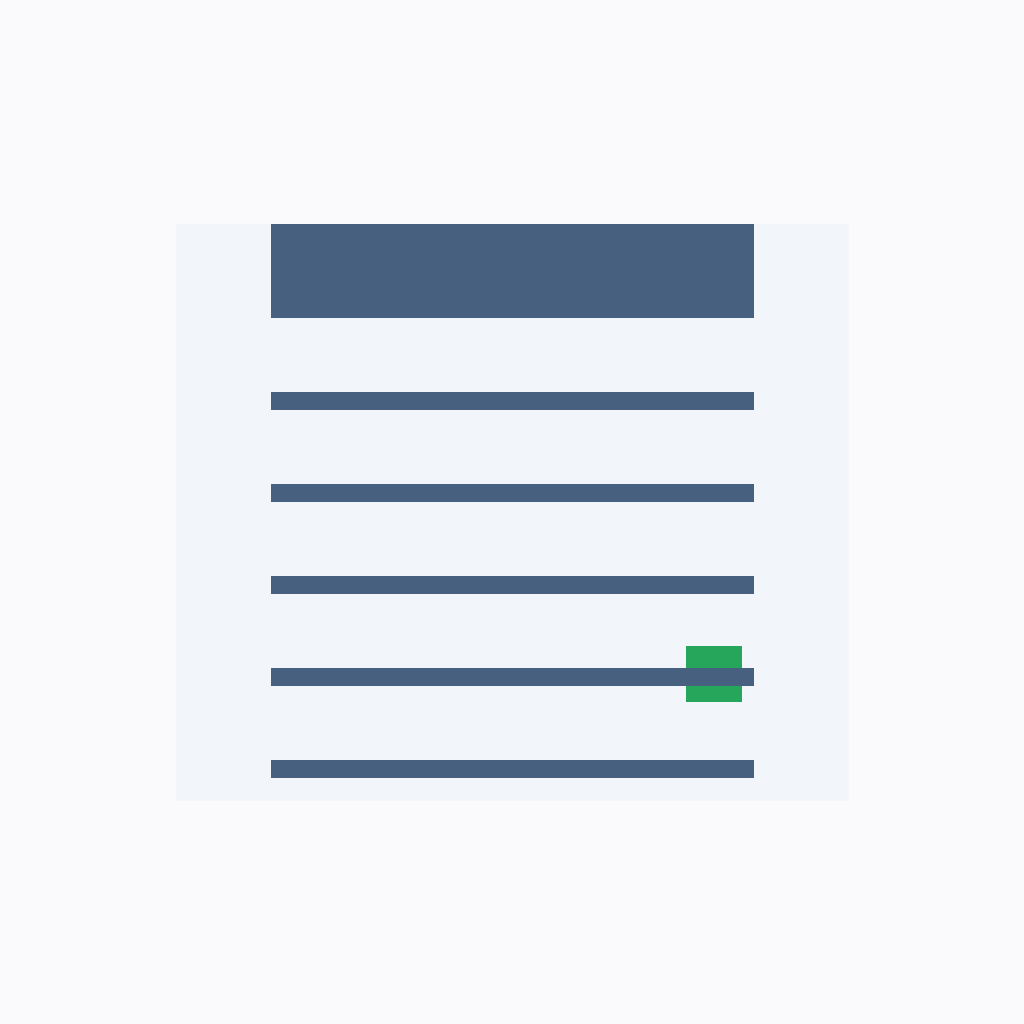
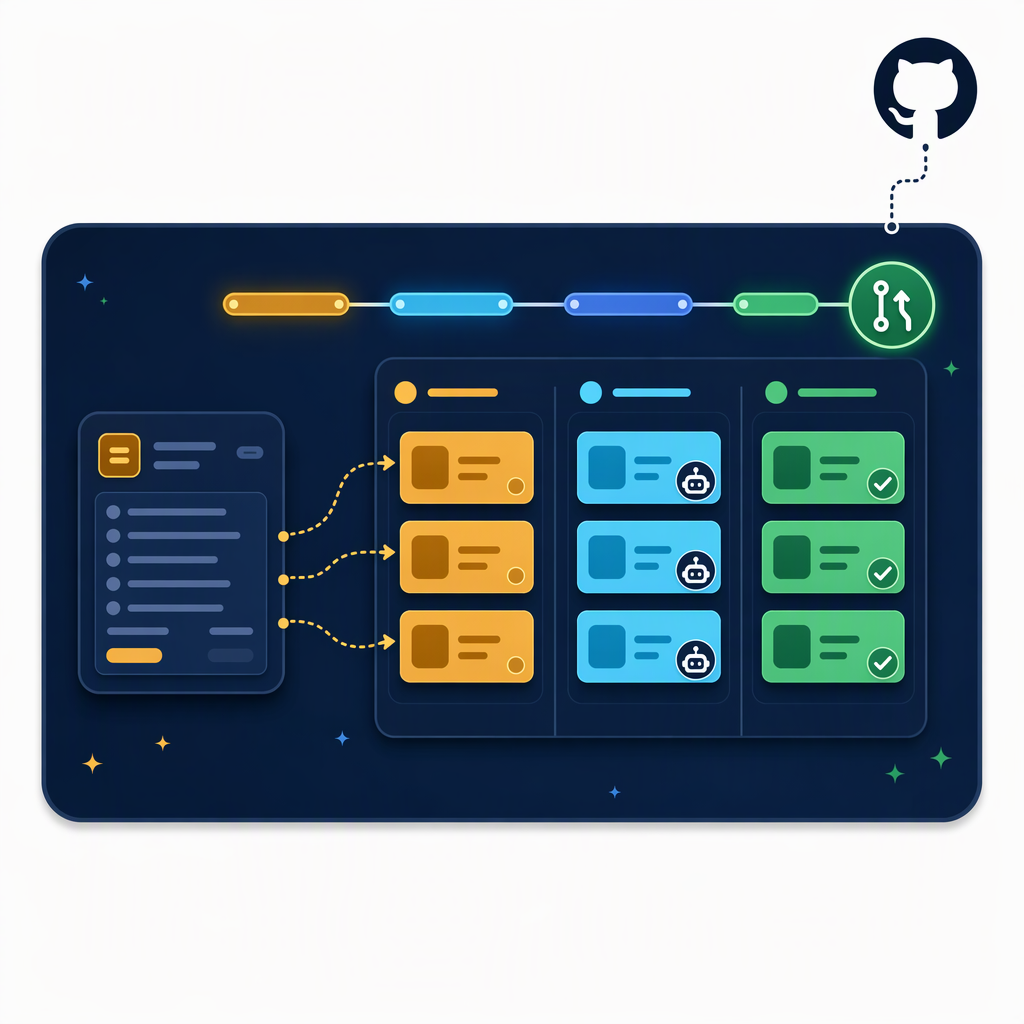
docs(site,skills): update session skill thumbnails, use canonical skill titles, and sort catalog alphabetically (#244)

diff --git a/docs/thumbnail-prompts.md b/docs/thumbnail-prompts.md
@@ -420,3 +420,25 @@ deployment: gpt-image-2
 endpoint: https://jong-image-westus3.openai.azure.com
 apiVersion: 2025-04-01-preview
 SHA-256: 08baa9ed97ba72f128d1d1051119960d7eef89f4fdc8d4a466e5da6ad3c837c9
+
+## create-session-board-canvas (31a1df78de87)
+
+Prompt: "Flat vector illustration on a pure white background, 1024x1024, centered composition. One large rounded dark-navy session-board canvas window is the hero surface. Inside it, show a clear left-to-right transformation: on the left, a compact plan card with abstract dash lines and a small amber blocker badge connects via smooth dashed guide lines into a clean three-column kanban board on the right with pending amber cards, active cyan task cards with tiny agent node badges, and completed emerald-green task cards with circular green check badges, topped by a sleek segmented progress bar and a green pull-request merge badge. Place a small GitHub Octocat mark in the upper-right with a dotted tether to the canvas window, never the main subject. Deep navy, cyan-indigo, emerald health green, and warm amber palette; clean modern rounded shapes, soft long shadows, subtle dashed connectors, tiny sparkles, strong silhouette legible at 175 pixels. Diagram treatment only: abstract dashes and rounded pills instead of labels. No words, letters, numerals, percentages, fake text, photorealism, 3D, extra floating windows, or clutter."
+
+Provider: azure-openai
+model: gpt-image-2
+deployment: gpt-image-2
+endpoint: https://jong-image-westus3.openai.azure.com
+apiVersion: 2025-04-01-preview
+SHA-256: 31a1df78de87f12500b7648dc4e15392a0060e580b10641a7127bea2727d12ab
+
+## session-statusline (540b36af8d3f)
+
+Prompt: "Flat vector illustration on a pure white background, 1024x1024, centered composition. One large rounded dark-slate terminal window with a prominent bottom statusline footer bar is the hero surface. Inside it, show a clear left-to-right transformation: on the left, cluttered stale status pills with an amber warning dot are swept away through a subtle dashed filter arc into a clean, organized session footer bar on the right holding four distinct color-coded rounded pills in sky blue, health green with a circular check badge, warm amber, and soft violet, while a tidy git-branch and pull-request card above the footer carries a small green shield badge to show that clearing pills preserves underlying work. Place a small GitHub Octocat mark in the upper-right with a dotted tether to the terminal window, never the main subject. Dark slate navy, sky blue, health green, warm amber, and soft violet palette; clean modern rounded shapes, soft long shadows, subtle dashed guide lines, tiny sparkles, strong silhouette legible at 175 pixels. Diagram treatment only: abstract dashes and rounded pills instead of labels. No words, letters, numerals, fake text, photorealism, 3D, trash cans, destructive imagery, or clutter."
+
+Provider: azure-openai
+model: gpt-image-2
+deployment: gpt-image-2
+endpoint: https://jong-image-westus3.openai.azure.com
+apiVersion: 2025-04-01-preview
+SHA-256: 540b36af8d3f05e61f14db979615ce69c708166d44da55bf6e8cd43198d97eaa

diff --git a/site/src/content/skills/retro.md b/site/src/content/skills/retro.md
@@ -1,5 +1,5 @@
 ---
-title: Session Retro
+title: retro
 tagline: "Close out a session with an evidence-backed task and feedback audit, source-skill improvements, and safely approved branch and worktree cleanup"
 useWhen: "retro, session retro, session retrospective, wrap up this session, check whether we are done, reconcile my feedback"
 repoPath: skills/retro

diff --git a/site/src/content/skills/eli5.md b/site/src/content/skills/eli5.md
@@ -1,5 +1,5 @@
 ---
-title: "Explain Like I'm 5 (eli5)"
+title: eli5
 tagline: "Understand code, errors, and ideas through a plain-language explanation and a useful comparison."
 useWhen: "When you say ELI5, explain this simply, or ask for a beginner-friendly explanation of the current conversation, selection, or attachment."
 repoPath: skills/eli5
